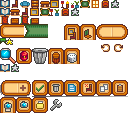
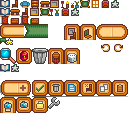
config button adjustment

Changed region(s): [[0.375, 0.8496, 0.5, 0.9823]]

diff --git a/Menus/Catalog.cs b/Menus/Catalog.cs
@@ -146,7 +146,7 @@ namespace HappyHomeDesigner.Menus
 			ToggleButton = new(new(0, 0, 48, 48), Game1.mouseCursors, new(352, 494, 12, 12), 3f, false);
 
 			if (IGMCM.Installed && ModEntry.config.GMCMButton)
-				SettingsButton = new(new(0, 0, 48, 48), Game1.objectSpriteSheet, new(256, 64, 16, 16), 3f, true);
+				SettingsButton = new(new(0, 0, 36, 36), MenuTexture, new(48, 97, 12, 12), 3f, true);
 
 			CNPButton = CustomNPCPaintings.GetButton();
 
@@ -177,7 +177,7 @@ namespace HappyHomeDesigner.Menus
 				return;
 
 			if (enabled)
-				SettingsButton ??= new(new(0, 0, 48, 48), Game1.objectSpriteSheet, new(256, 64, 16, 16), 3f, true);
+				SettingsButton ??= new(new(0, 0, 36, 36), MenuTexture, new(48, 97, 12, 12), 3f, true);
 			else
 				SettingsButton = null;
 		}
@@ -335,10 +335,7 @@ namespace HappyHomeDesigner.Menus
 			if (CNPButton is not null)
 			{
 				CNPButton.setPosition(tabX, tabY);
-				tabX += CNPButton.bounds.Width;
 			}
-
-			SettingsButton?.setPosition(tabX + 8, tabY + 8);
 
 			CloseButton.bounds.Location = new(40, 52);
 			ToggleButton.bounds.Location = new(16, bounds.Height - 64);
@@ -349,6 +346,8 @@ namespace HappyHomeDesigner.Menus
 				Math.Max(currentTab.width + currentTab.xPositionOnScreen + 48 + 3 + 3, (bounds.Width - PlayerInventory.width) / 2) - PlayerInventory.xPositionOnScreen, 
 				(ToggleButton.bounds.Bottom - PlayerInventory.height) - PlayerInventory.yPositionOnScreen
 			);
+
+			SettingsButton?.setPosition(currentTab.xPositionOnScreen + currentTab.width, tabY + 16);
 		}
 
 		public override void receiveScrollWheelAction(int direction)
